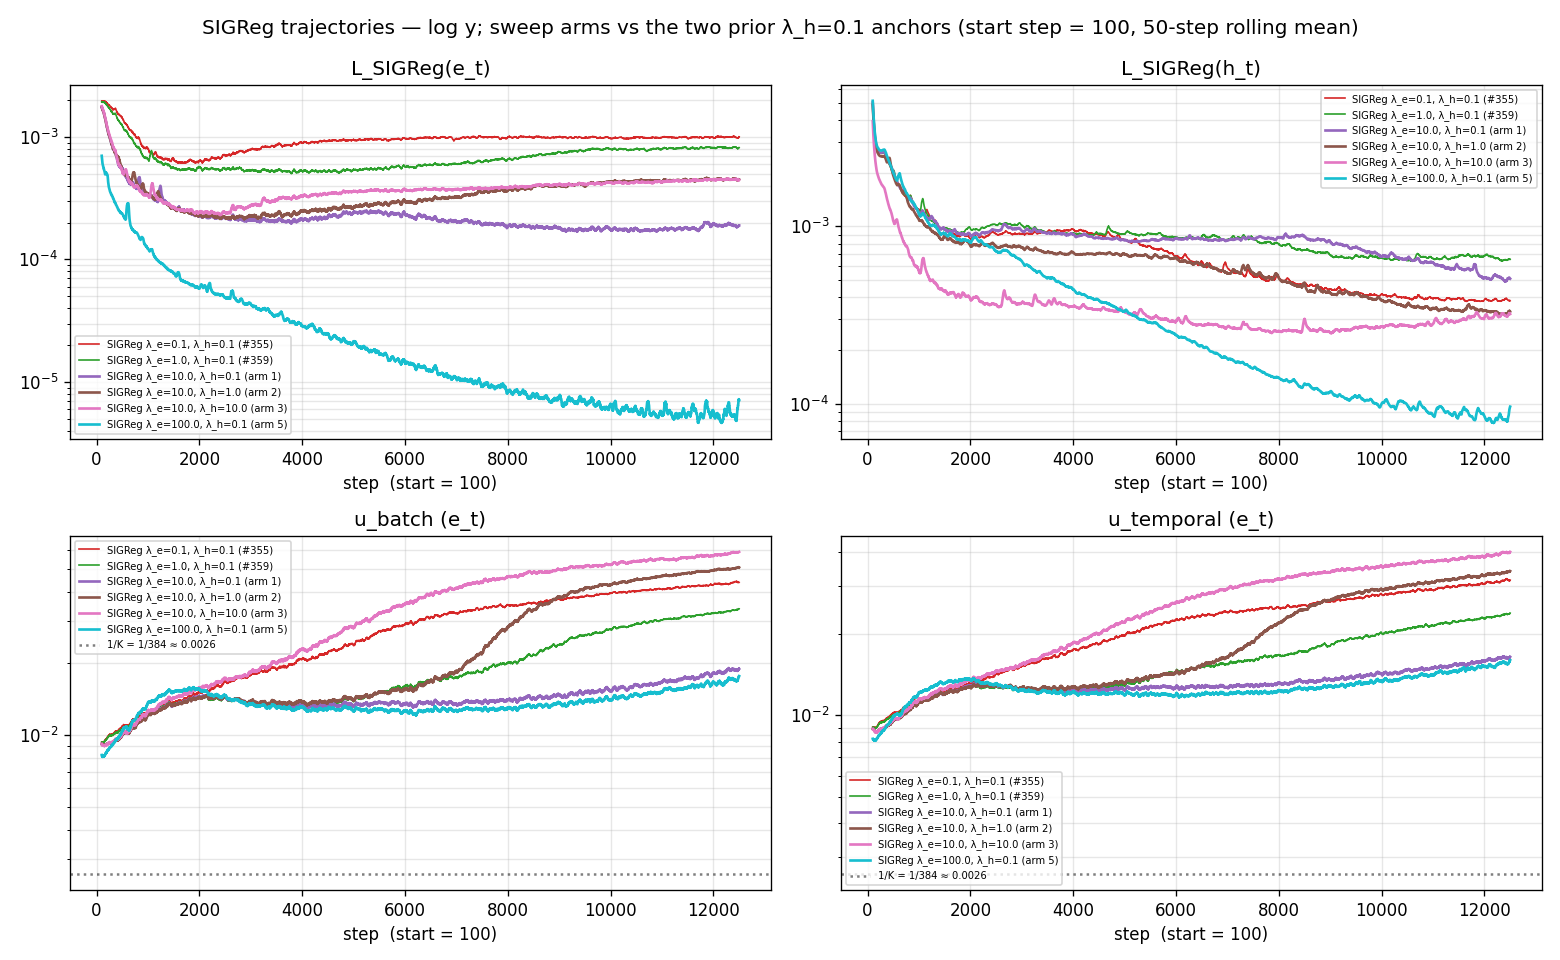
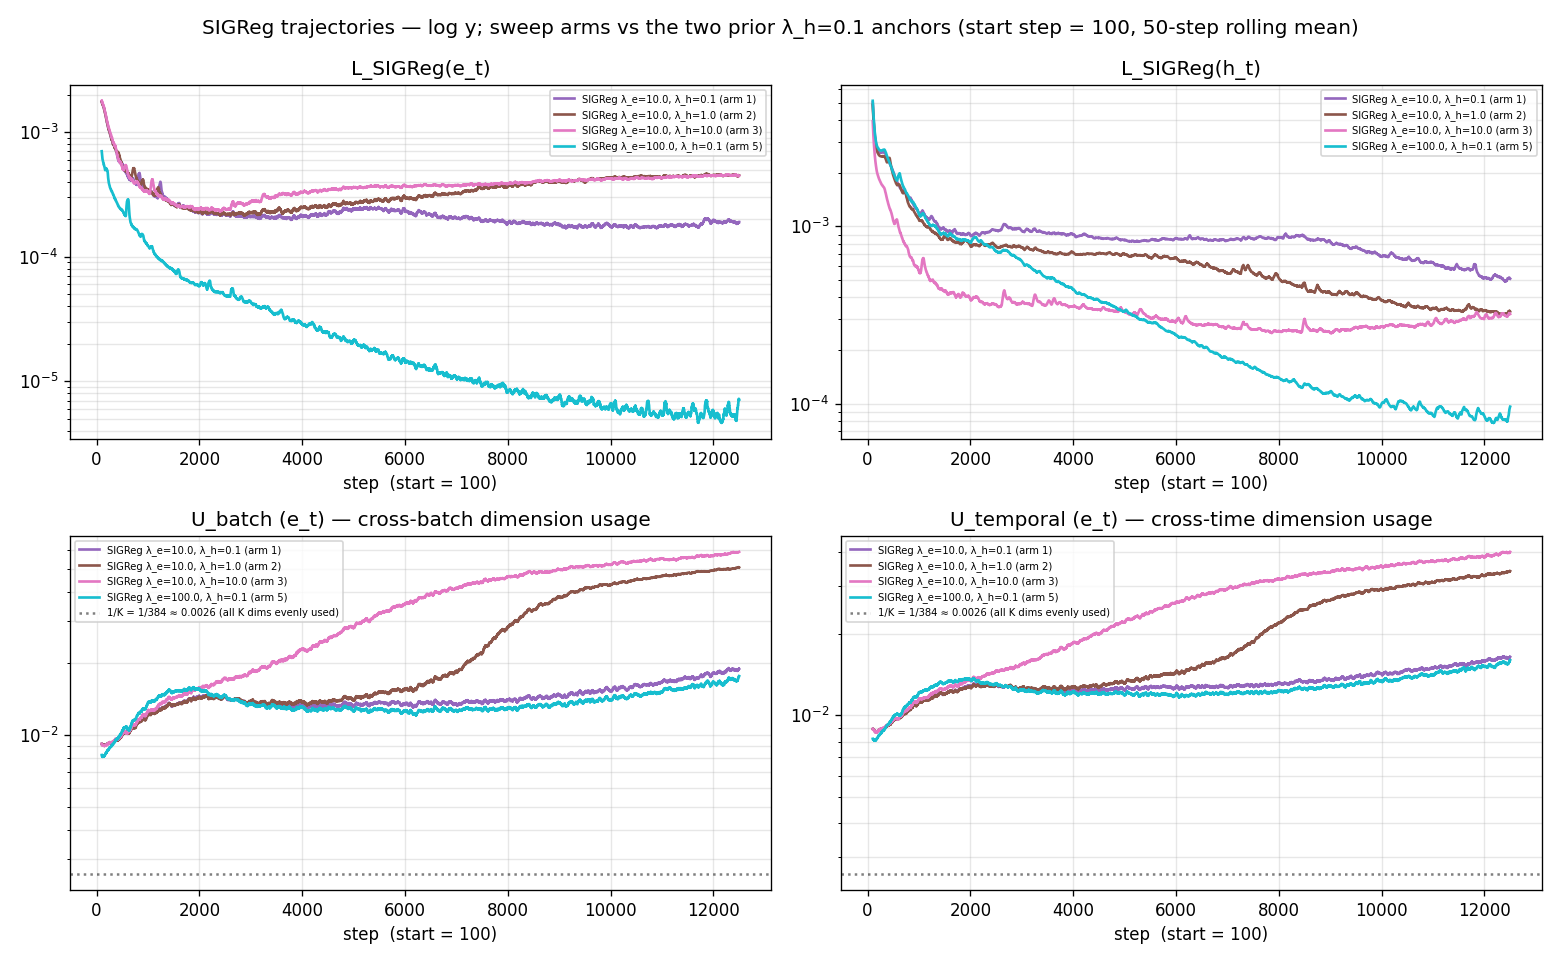
report(#363): rename 'uniformity' → 'dimension usage' (U)
User correction on terminology — the cos²-based metric (u_batch,
u_temporal, u_batch_e, u_temporal_e) measures dimension usage, not
sample uniformity over the sphere. The 1/K floor corresponds to all
K=384 dims evenly used; values near 1 mean collapse onto one direction.

Changes:
- Vocab: dropped two-row u_batch / u_temporal entries; added single U
  entry defining dimension usage and both e_t / h_t variants.
- Captions: dim-usage / uniformity wording → dimension usage, with the
  1/K floor explicitly tagged 'all K dims evenly used'.
- Plot: renamed plots/uniformity.png → plots/dim_usage.png; suptitle,
  panel titles, ylabel, and 1/K-floor legend label rebuilt.
- Mirror fix to legacy experiments/.../scripts/build_report.py and the
  experiment README plot-list line.

diff --git a/reports/2026-06-24_sigreg_lambda_sweep/scripts/build_plots.py b/reports/2026-06-24_sigreg_lambda_sweep/scripts/build_plots.py
@@ -9,7 +9,7 @@
 #   best_vs_last.png        — per-arm best-minus-last gap across the 4 cells.
 #   loss_curve.png          — total loss across arms + anchors (50-step rolling mean).
 #   sigreg_e_inspection.png — L_SIGReg(e_t), L_SIGReg(h_t), u_batch_e, u_temporal_e.
-#   uniformity.png          — u_batch/u_temporal trajectories on h_t/e_t.
+#   dim_usage.png           — U (dimension usage) on h_t/e_t, cross-batch and cross-time.
 import argparse
 import sys
 from pathlib import Path
@@ -50,6 +50,7 @@ ARM_LABEL = {
     "emb100_enc10":      "SIGReg λ_e=10.0, λ_h=1.0 (arm 2)",
     "emb100_enc100":     "SIGReg λ_e=10.0, λ_h=10.0 (arm 3)",
     "emb1000_enc01":     "SIGReg λ_e=100.0, λ_h=0.1 (arm 5)",
+    "emb10000_enc10":    "SIGReg λ_e=1000.0, λ_h=1.0 (arm 6)",
 }
 
 ARM_COLOR = {
@@ -61,9 +62,10 @@ ARM_COLOR = {
     "emb100_enc10":  "#8c564b",
     "emb100_enc100": "#e377c2",
     "emb1000_enc01": "#17becf",
+    "emb10000_enc10":"#bcbd22",
 }
 
-SWEEP_ARMS = ["emb100_enc01", "emb100_enc10", "emb100_enc100", "emb1000_enc01"]
+SWEEP_ARMS = ["emb100_enc01", "emb100_enc10", "emb100_enc100", "emb1000_enc01", "emb10000_enc10"]
 ANCHOR_ORDER = ["cpc_enc3", "ema_enc3", "sigreg01_enc3", "sigreg10_enc3"]
 CELLS = [("2L", "best"), ("2L", "last"), ("6L", "best"), ("6L", "last")]
 # Plot start step — cuts the warm-up regime so its early-step divergence
@@ -259,18 +261,20 @@ def plot_loss_curves(arm_runs: Path, sigreg_runs: Path, sigreg10_runs: Path, out
 
 
 def plot_sigreg_inspection(arm_runs: Path, sigreg_runs: Path, sigreg10_runs: Path, out: Path):
-    """4-panel log-y trajectories of L_SIGReg(e_t) / L_SIGReg(h_t) / u_batch(e_t) /
-    u_temporal(e_t). All panels use log y so the bottom row's tiny values
-    (1/K ≈ 0.0026, u_batch_e ≈ 0.02–0.06) are readable instead of crammed at
-    the baseline of a [0,1] linear axis; matches the parent #359 report's
-    sigreg_e_inspection convention. `PLOT_START_STEP` cuts the warm-up regime."""
+    """4-panel log-y trajectories of L_SIGReg(e_t) / L_SIGReg(h_t) / U_batch(e_t) /
+    U_temporal(e_t). Bottom row = dimension-usage U on the embedding side `e_t`,
+    clipped to `[1/K, 1]` with floor at 1/K = all K dims evenly used. All panels
+    use log y so the bottom row's tiny values (1/K ≈ 0.0026, u_batch_e ≈ 0.02–0.06)
+    are readable instead of crammed at the baseline of a [0,1] linear axis;
+    matches the parent #359 report's sigreg_e_inspection convention.
+    `PLOT_START_STEP` cuts the warm-up regime."""
     fig, axes = plt.subplots(2, 2, figsize=(13, 8))
     K = 384
     panels = [
         ("sigreg_e",     "L_SIGReg(e_t)"),
         ("sigreg_h",     "L_SIGReg(h_t)"),
-        ("u_batch_e",    "u_batch (e_t)"),
-        ("u_temporal_e", "u_temporal (e_t)"),
+        ("u_batch_e",    "U_batch (e_t) — cross-batch dimension usage"),
+        ("u_temporal_e", "U_temporal (e_t) — cross-time dimension usage"),
     ]
     overlays = {
         "sigreg01_enc3": sigreg_runs / f"bb_{BASE_TAG}_losses.csv",
@@ -294,7 +298,7 @@ def plot_sigreg_inspection(arm_runs: Path, sigreg_runs: Path, sigreg10_runs: Pat
                             label=ARM_LABEL[arm], color=ARM_COLOR[arm], lw=1.6)
         if col in ("u_batch_e", "u_temporal_e"):
             ax.axhline(1.0 / K, color="k", ls=":", alpha=0.5,
-                       label=f"1/K = 1/{K} ≈ {1/K:.4f}")
+                       label=f"1/K = 1/{K} ≈ {1/K:.4f} (all K dims evenly used)")
         ax.set_yscale("log")
         ax.set_xlabel(f"step  (start = {PLOT_START_STEP})")
         ax.set_title(title)
@@ -306,11 +310,15 @@ def plot_sigreg_inspection(arm_runs: Path, sigreg_runs: Path, sigreg10_runs: Pat
     fig.tight_layout(); fig.savefig(out, dpi=120); plt.close(fig)
 
 
-def plot_uniformity(arm_runs: Path, sigreg_runs: Path, sigreg10_runs: Path, out: Path):
-    """u_batch / u_temporal of h_t (solid) and e_t (dashed) for sweep arms and
-    the 2 anchors. `PLOT_START_STEP` cuts the warm-up regime in line with the
-    other trajectory plots."""
+def plot_dim_usage(arm_runs: Path, sigreg_runs: Path, sigreg10_runs: Path, out: Path):
+    """Dimension usage U on h_t (solid) and e_t (dashed) for sweep arms and the
+    2 anchors. U measures how many of the K=384 latent dimensions are actively
+    used; the 1/K floor corresponds to all K dimensions evenly used (max
+    diversity), values near 1 to collapse onto a single direction.
+    `PLOT_START_STEP` cuts the warm-up regime in line with the other trajectory
+    plots."""
     fig, axes = plt.subplots(1, 2, figsize=(13, 4.8), sharey=True)
+    K = 384
     overlays = {
         "sigreg01_enc3": sigreg_runs / f"bb_{BASE_TAG}_losses.csv",
         "sigreg10_enc3": sigreg10_runs / f"bb_{BASE_TAG}_emb10_losses.csv",
@@ -338,12 +346,14 @@ def plot_uniformity(arm_runs: Path, sigreg_runs: Path, sigreg10_runs: Path, out:
                     ax.plot(ds["step"], ds[f"u_{kind}_e_sm"],
                             label=f"{ARM_LABEL[arm]} · e_t",
                             color=ARM_COLOR[arm], lw=1.5, ls="--")
+        ax.axhline(1.0 / K, color="k", ls=":", alpha=0.5,
+                   label=f"1/K = 1/{K} ≈ {1/K:.4f} (all K dims evenly used)")
         ax.set_xlabel(f"step  (start = {PLOT_START_STEP})")
-        ax.set_ylabel("effective dimensionality")
-        ax.set_title(f"u_{kind} ({'cross-batch' if kind=='batch' else 'cross-time'})")
+        ax.set_ylabel("U (dimension usage)")
+        ax.set_title(f"U_{kind} ({'cross-batch' if kind=='batch' else 'cross-time'})")
         ax.set_ylim(0, 1)
         ax.legend(fontsize=5.6); ax.grid(alpha=0.3)
-    fig.suptitle("Uniformity (cos²-based dim_usage; clipped to [1/K, 1])")
+    fig.suptitle("Dimension usage U — cos²-based; clipped to [1/K, 1] (floor = all K dims evenly used)")
     fig.tight_layout(); fig.savefig(out, dpi=120); plt.close(fig)
 
 
@@ -369,8 +379,8 @@ def main(argv: list[str] | None = None) -> int:
                      plots / "loss_curve.png")
     plot_sigreg_inspection(args.arm_runs, args.sigreg01_runs, args.sigreg10_runs,
                            plots / "sigreg_e_inspection.png")
-    plot_uniformity(args.arm_runs, args.sigreg01_runs, args.sigreg10_runs,
-                    plots / "uniformity.png")
+    plot_dim_usage(args.arm_runs, args.sigreg01_runs, args.sigreg10_runs,
+                   plots / "dim_usage.png")
     print(f"wrote 6 plots under {plots}")
     return 0
 

diff --git a/experiments/2026-06-24_sigreg_lambda_sweep/scripts/build_report.py b/experiments/2026-06-24_sigreg_lambda_sweep/scripts/build_report.py
@@ -13,7 +13,7 @@
 #   results/gm_table.csv        — anchors + present sweep arms × 4 cells
 #   plots/loss_curve.png        — training loss for present arms vs anchors
 #   plots/sigreg_e_inspection.png — sigreg_e/h, u_batch_e/temporal_e
-#   plots/uniformity.png        — u_batch / u_temporal on h_t and e_t
+#   plots/dim_usage.png         — U (dimension usage) on h_t and e_t, cross-batch and cross-time
 #   plots/gm_rel_mase.png       — per-cell GM-Rel MASE bars across arms
 #   results/final_trajectories.txt — Tail-50 means per arm
 import argparse
@@ -68,6 +68,8 @@ ARM_LABEL = {
     "emb100_enc10":      "SIGReg + EMA-target, B=512 (λ_e=10.0, λ_h=1.0)",
     "emb100_enc100":     "SIGReg + EMA-target, B=512 (λ_e=10.0, λ_h=10.0)",
     "emb10_enc10":       "SIGReg + EMA-target, B=512 (λ_e=1.0, λ_h=1.0)",
+    "emb1000_enc01":     "SIGReg + EMA-target, B=512 (λ_e=100.0, λ_h=0.1)",
+    "emb10000_enc10":    "SIGReg + EMA-target, B=512 (λ_e=1000.0, λ_h=1.0)",
 }
 
 ARM_COLOR = {
@@ -79,6 +81,8 @@ ARM_COLOR = {
     "emb100_enc10":  "#8c564b",
     "emb100_enc100": "#e377c2",
     "emb10_enc10":   "#17becf",
+    "emb1000_enc01": "#bcbd22",
+    "emb10000_enc10":"#7f7f7f",
 }
 
 SWEEP_ARMS = [
@@ -87,6 +91,8 @@ SWEEP_ARMS = [
     ("emb100_enc10",  10.0, 1.0),
     ("emb100_enc100", 10.0, 10.0),
     ("emb10_enc10",    1.0, 1.0),
+    ("emb1000_enc01", 100.0, 0.1),
+    ("emb10000_enc10",1000.0, 1.0),
 ]
 
 ANCHOR_ORDER = ["cpc_enc3", "ema_enc3", "sigreg01_enc3", "sigreg10_enc3"]
@@ -168,12 +174,12 @@ def plot_loss_curves(runs: Path, ema_csv: Path | None, cpc_csv: Path | None,
 def plot_sigreg_inspection(runs: Path, sig01_csv: Path | None, sig10_csv: Path | None, out: Path):
     """L_SIGReg(e_t), L_SIGReg(h_t), u_batch_e, u_temporal_e across sweep arms + anchors."""
     fig, axes = plt.subplots(2, 2, figsize=(13, 8))
-    K = 384  # d_model (embedding dim), not batch — sets the 1/K uniformity floor
+    K = 384  # d_model (embedding dim), not batch — sets the 1/K dimension-usage floor
     panels = [
-        ("sigreg_e",     "L_SIGReg(e_t)",     True),
-        ("sigreg_h",     "L_SIGReg(h_t)",     True),
-        ("u_batch_e",    "u_batch (e_t)",     False),
-        ("u_temporal_e", "u_temporal (e_t)",  False),
+        ("sigreg_e",     "L_SIGReg(e_t)",                                          True),
+        ("sigreg_h",     "L_SIGReg(h_t)",                                          True),
+        ("u_batch_e",    "U_batch (e_t) — cross-batch dimension usage",            False),
+        ("u_temporal_e", "U_temporal (e_t) — cross-time dimension usage",          False),
     ]
     sweep_csvs = [(s, sweep_run_csv(runs, s)) for s in present_arms(runs)]
     anchor_csvs = [
@@ -194,7 +200,7 @@ def plot_sigreg_inspection(runs: Path, sig01_csv: Path | None, sig10_csv: Path |
                         label=ARM_LABEL[suffix], color=ARM_COLOR[suffix], lw=1.6)
         if col in ("u_batch_e", "u_temporal_e"):
             ax.axhline(1.0 / K, color="k", ls=":", alpha=0.5,
-                       label=f"1/K = 1/{K} ≈ {1/K:.4f}")
+                       label=f"1/K = 1/{K} ≈ {1/K:.4f} (all K dims evenly used)")
             ax.set_ylim(0, 1)
         if logy:
             ax.set_yscale("log")
@@ -204,9 +210,14 @@ def plot_sigreg_inspection(runs: Path, sig01_csv: Path | None, sig10_csv: Path |
     fig.tight_layout(); fig.savefig(out, dpi=120); plt.close(fig)
 
 
-def plot_uniformity(runs: Path, sig01_csv: Path | None, sig10_csv: Path | None,
-                    ema_csv: Path | None, cpc_csv: Path | None, out: Path):
+def plot_dim_usage(runs: Path, sig01_csv: Path | None, sig10_csv: Path | None,
+                   ema_csv: Path | None, cpc_csv: Path | None, out: Path):
+    """Dimension usage U on h_t (solid) and e_t (dashed) for sweep arms + 2
+    anchors. U measures how many of the K=384 latent dimensions are actively
+    used; 1/K floor = all K dims evenly used, values near 1 = collapsed to a
+    single direction."""
     fig, axes = plt.subplots(1, 2, figsize=(13, 4.8), sharey=True)
+    K = 384
     for ax, kind in zip(axes, ("batch", "temporal")):
         for arm, p in (("cpc_enc3", cpc_csv), ("ema_enc3", ema_csv),
                        ("sigreg01_enc3", sig01_csv), ("sigreg10_enc3", sig10_csv)):
@@ -226,11 +237,13 @@ def plot_uniformity(runs: Path, sig01_csv: Path | None, sig10_csv: Path | None,
                 ax.plot(d["step"], d[f"u_{kind}_e"].rolling(50, min_periods=1).mean(),
                         label=f"{ARM_LABEL[suffix]} · e_t",
                         color=ARM_COLOR[suffix], lw=1.5, ls="--")
-        ax.set_xlabel("step"); ax.set_ylabel("effective dimensionality")
-        ax.set_title(f"u_{kind} ({'cross-batch' if kind=='batch' else 'cross-time'})")
+        ax.axhline(1.0 / K, color="k", ls=":", alpha=0.5,
+                   label=f"1/K = 1/{K} ≈ {1/K:.4f} (all K dims evenly used)")
+        ax.set_xlabel("step"); ax.set_ylabel("U (dimension usage)")
+        ax.set_title(f"U_{kind} ({'cross-batch' if kind=='batch' else 'cross-time'})")
         ax.set_ylim(0, 1)
         ax.legend(fontsize=6); ax.grid(alpha=0.3)
-    fig.suptitle("Uniformity (cos²-based dim_usage; clipped to [1/K, 1])")
+    fig.suptitle("Dimension usage U — cos²-based; clipped to [1/K, 1] (floor = all K dims evenly used)")
     fig.tight_layout(); fig.savefig(out, dpi=120); plt.close(fig)
 
 
@@ -303,8 +316,8 @@ def main(argv: list[str] | None = None) -> int:
                      plots / "loss_curve.png")
     plot_sigreg_inspection(runs, args.sig01_csv, args.sig10_csv,
                            plots / "sigreg_e_inspection.png")
-    plot_uniformity(runs, args.sig01_csv, args.sig10_csv, args.ema_csv, args.cpc_csv,
-                    plots / "uniformity.png")
+    plot_dim_usage(runs, args.sig01_csv, args.sig10_csv, args.ema_csv, args.cpc_csv,
+                   plots / "dim_usage.png")
     plot_gm_bars(rows, runs, plots / "gm_rel_mase.png")
 
     traj_lines = []

diff --git a/reports/2026-06-24_sigreg_lambda_sweep/sigreg_lambda_sweep.md b/reports/2026-06-24_sigreg_lambda_sweep/sigreg_lambda_sweep.md
@@ -23,9 +23,9 @@ The four arms run:
 
 ![Log-log total training loss (50-step rolling mean) from step 100 onwards for the 4 sweep arms and the 2 prior λ_h=0.1 anchors. Cutting the first 100 warm-up steps and log axes keep the converged regime readable.](plots/loss_curve.png)
 
-![Log-y trajectories of L_SIGReg(e_t), L_SIGReg(h_t), u_batch(e_t), u_temporal(e_t) from step 100 onwards for the 4 sweep arms and the 2 anchors; rolling 50-step mean. The 1/K ≈ 0.00260 dotted line on the bottom row marks the one-direction floor of the dim-usage metrics.](plots/sigreg_e_inspection.png)
+![Log-y trajectories of L_SIGReg(e_t), L_SIGReg(h_t), U_batch(e_t), U_temporal(e_t) from step 100 onwards for the 4 sweep arms and the 2 anchors; rolling 50-step mean. The bottom row is the embedding-side dimension-usage metric U; its 1/K ≈ 0.00260 dotted floor marks all K=384 dims evenly used.](plots/sigreg_e_inspection.png)
 
-![Cross-batch and cross-time dim-usage of `h_t` (solid) and `e_t` (dashed) for the sweep arms and the 2 anchors from step 100 onwards; clipped to `[1/K, 1]`.](plots/uniformity.png)
+![Cross-batch and cross-time dimension usage U on `h_t` (solid) and `e_t` (dashed) for the sweep arms and the 2 anchors from step 100 onwards; clipped to `[1/K, 1]`; the 1/K dotted floor marks all K=384 dims evenly used.](plots/dim_usage.png)
 
 ### GM-Rel MASE — B=512 sweep family
 
@@ -95,8 +95,7 @@ Anchor GM values are transcribed verbatim from the prior `λ_e=1.0, λ_h=0.1` re
 | `e_t` | output of the GRU patch-embed at position (batch, time, channel); dimension `K`. |
 | `h_t` | output of the 3-layer transformer encoder at the same position. |
 | **SIGReg** | LeJEPA spherical regulariser. Epps–Pulley test statistic averaged over `M`=1024 random unit-direction 1-D projections of the pooled latent, trapezoidal-integrated on `[−6/√K, 6/√K]` against `N(0, 1/K)`. Two terms: `L_SIGReg(e_t)` weighted by `λ_e`, `L_SIGReg(h_t)` weighted by `λ_h`. |
-| `u_batch` | cross-batch dim-usage of `h_t`, clipped to `[1/K, 1]`. `1/K` = one direction; 1 = uniform sphere coverage. `u_batch_e` is the same statistic on `e_t`. |
-| `u_temporal` | cross-time analogue of `u_batch`; `u_temporal_e` is the `e_t` version. |
+| `U`, `u_*` | **dimension usage** of the latent: how many of the `K`=384 dimensions are actively used. cos²-based, clipped to `[1/K, 1]`. `1/K` floor = all `K` dims evenly used (max diversity); values near 1 = collapsed to a single direction. Four variants on two split axes: cross-batch (`u_batch`) vs cross-time (`u_temporal`); encoding side (no suffix, on `h_t`) vs embedding side (`_e` suffix, on `e_t`). Full set: `u_batch`, `u_temporal`, `u_batch_e`, `u_temporal_e`. |
 | **GM-Rel MASE** | GIFT-Eval full-97 aggregate: geometric mean over 97 configs of (model MASE ÷ seasonal-naive MASE). Lower = better; 1.0 = seasonal-naive parity. |
 | **best-ckpt / last-ckpt** | `best` = backbone checkpoint at lowest train-loss step; `last` = backbone at step 12 500. The q-head is trained from each backbone separately. The preferred end-state is `last ≤ best` (model still improving at step 12 500). |
 | **paired bootstrap** | resample the 97 per-config rel-MASE values with replacement (B=10 000 draws, seed 20260624), recompute the statistic `mean(log(rel_arm) − log(rel_baseline))`, take its 2.5/97.5 quantiles, convert back to absolute GM scale via `GM_baseline · (exp(quantile) − 1)`. Aligned per config. |

diff --git a/experiments/2026-06-24_sigreg_lambda_sweep/README.md b/experiments/2026-06-24_sigreg_lambda_sweep/README.md
@@ -54,7 +54,7 @@ experiments/2026-06-24_sigreg_lambda_sweep/
     build_report.py                      gm_table.csv + plots
   runs/                                  per-arm checkpoints, optimizer, losses csv
   results/                               per-arm logs, GIFT-Eval outputs, gm_table.csv
-  plots/                                 loss_curve, sigreg_e_inspection, uniformity, gm_rel_mase
+  plots/                                 loss_curve, sigreg_e_inspection, dim_usage, gm_rel_mase
 ```
 
 ## Anchors
